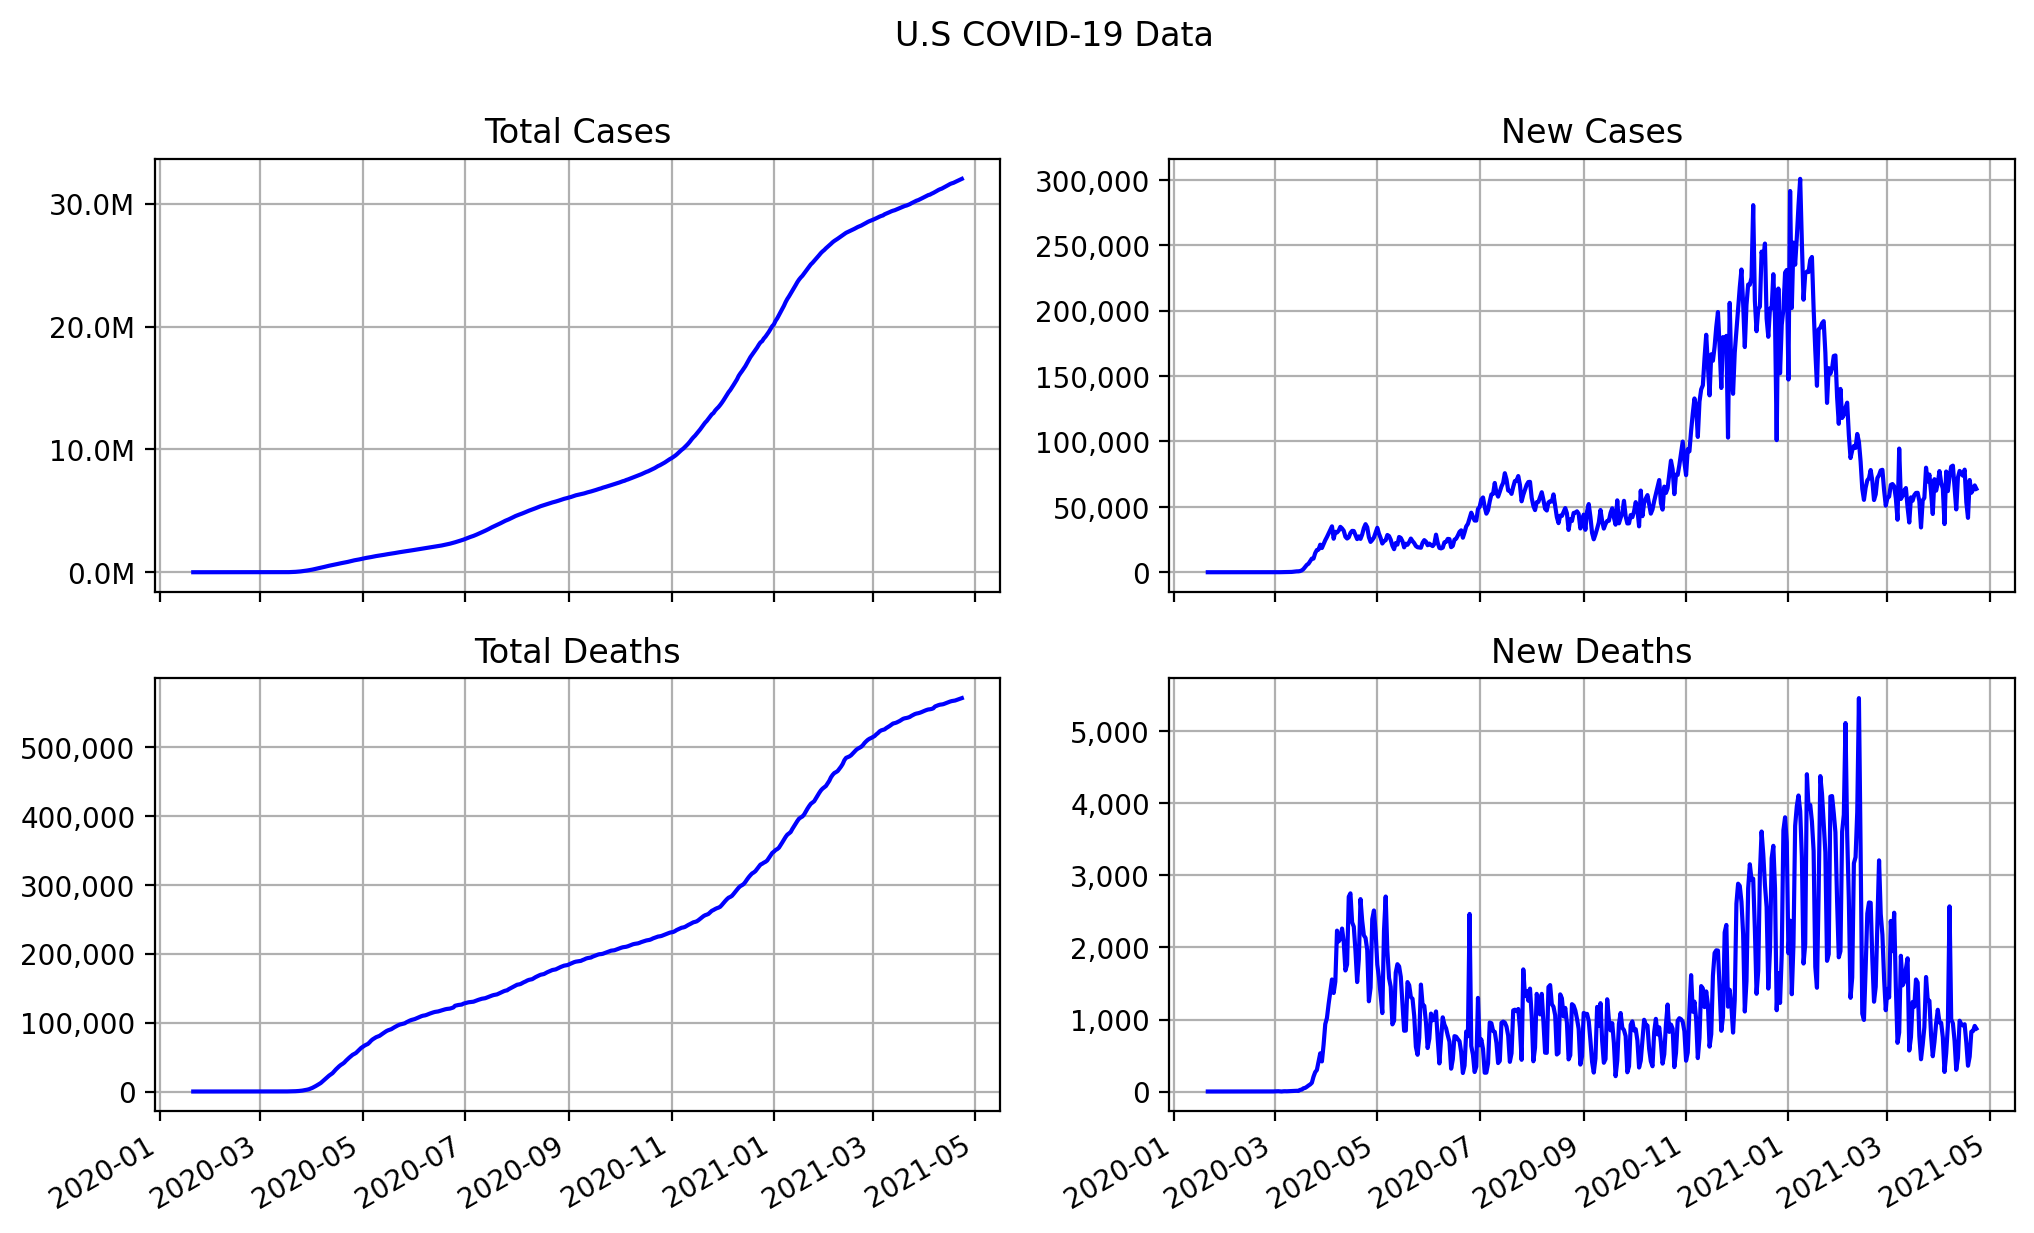
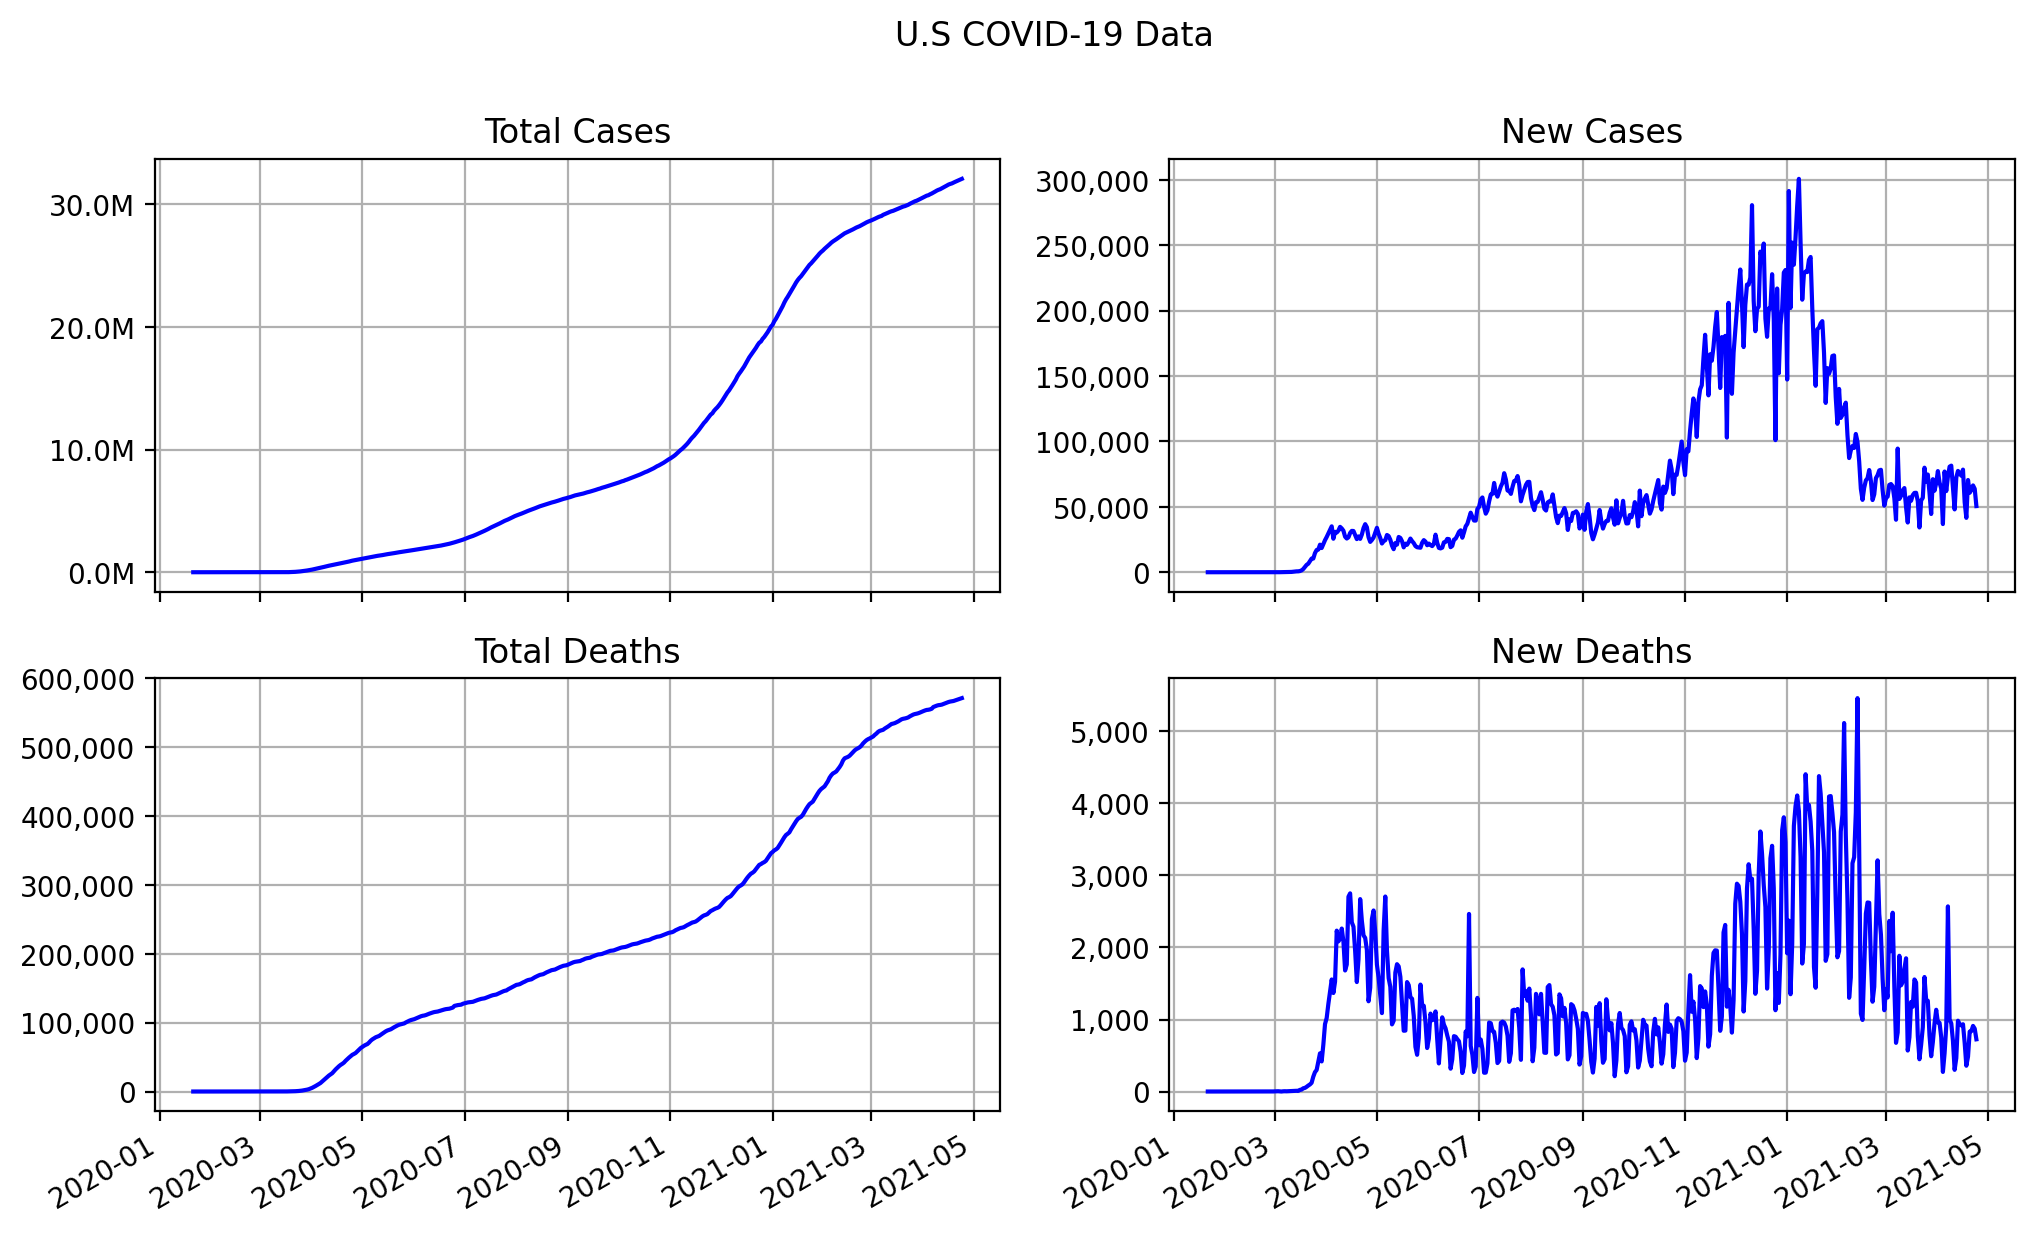
Updating data.

diff --git a/README.md b/README.md
@@ -1,10 +1,10 @@
-###### Updated April 24, 2021, 3:20 P.M EST
+###### Updated April 24, 2021, 9:22 P.M EST
 # US COVID-19 Data 
 ###### [ [U.S. Data](us.csv) ([Raw CSV](https://raw.githubusercontent.com/drebrb/covid-19-data/master/us.csv)) | [U.S. State-Level Data](states) ]
-| U.S    | Total Reported   | On April 23   | 7-Day Average   |
+| U.S    | Total Reported   | On April 24   | 7-Day Average   |
 |:-------|:-----------------|:--------------|:----------------|
-| Cases  | 32,019,483       | 63,752        | 59,904          |
-| Deaths | 570,746          | 873           | 710             |
+| Cases  | 32,070,058       | 50,575        | 59,481          |
+| Deaths | 571,471          | 725           | 717             |
 ###### [ [U.S. Plot](us.png) ]
 ![Plot](https://github.com/drebrb/covid-19-data/blob/master/us.png)
 # US COVID-19 Vaccinations
